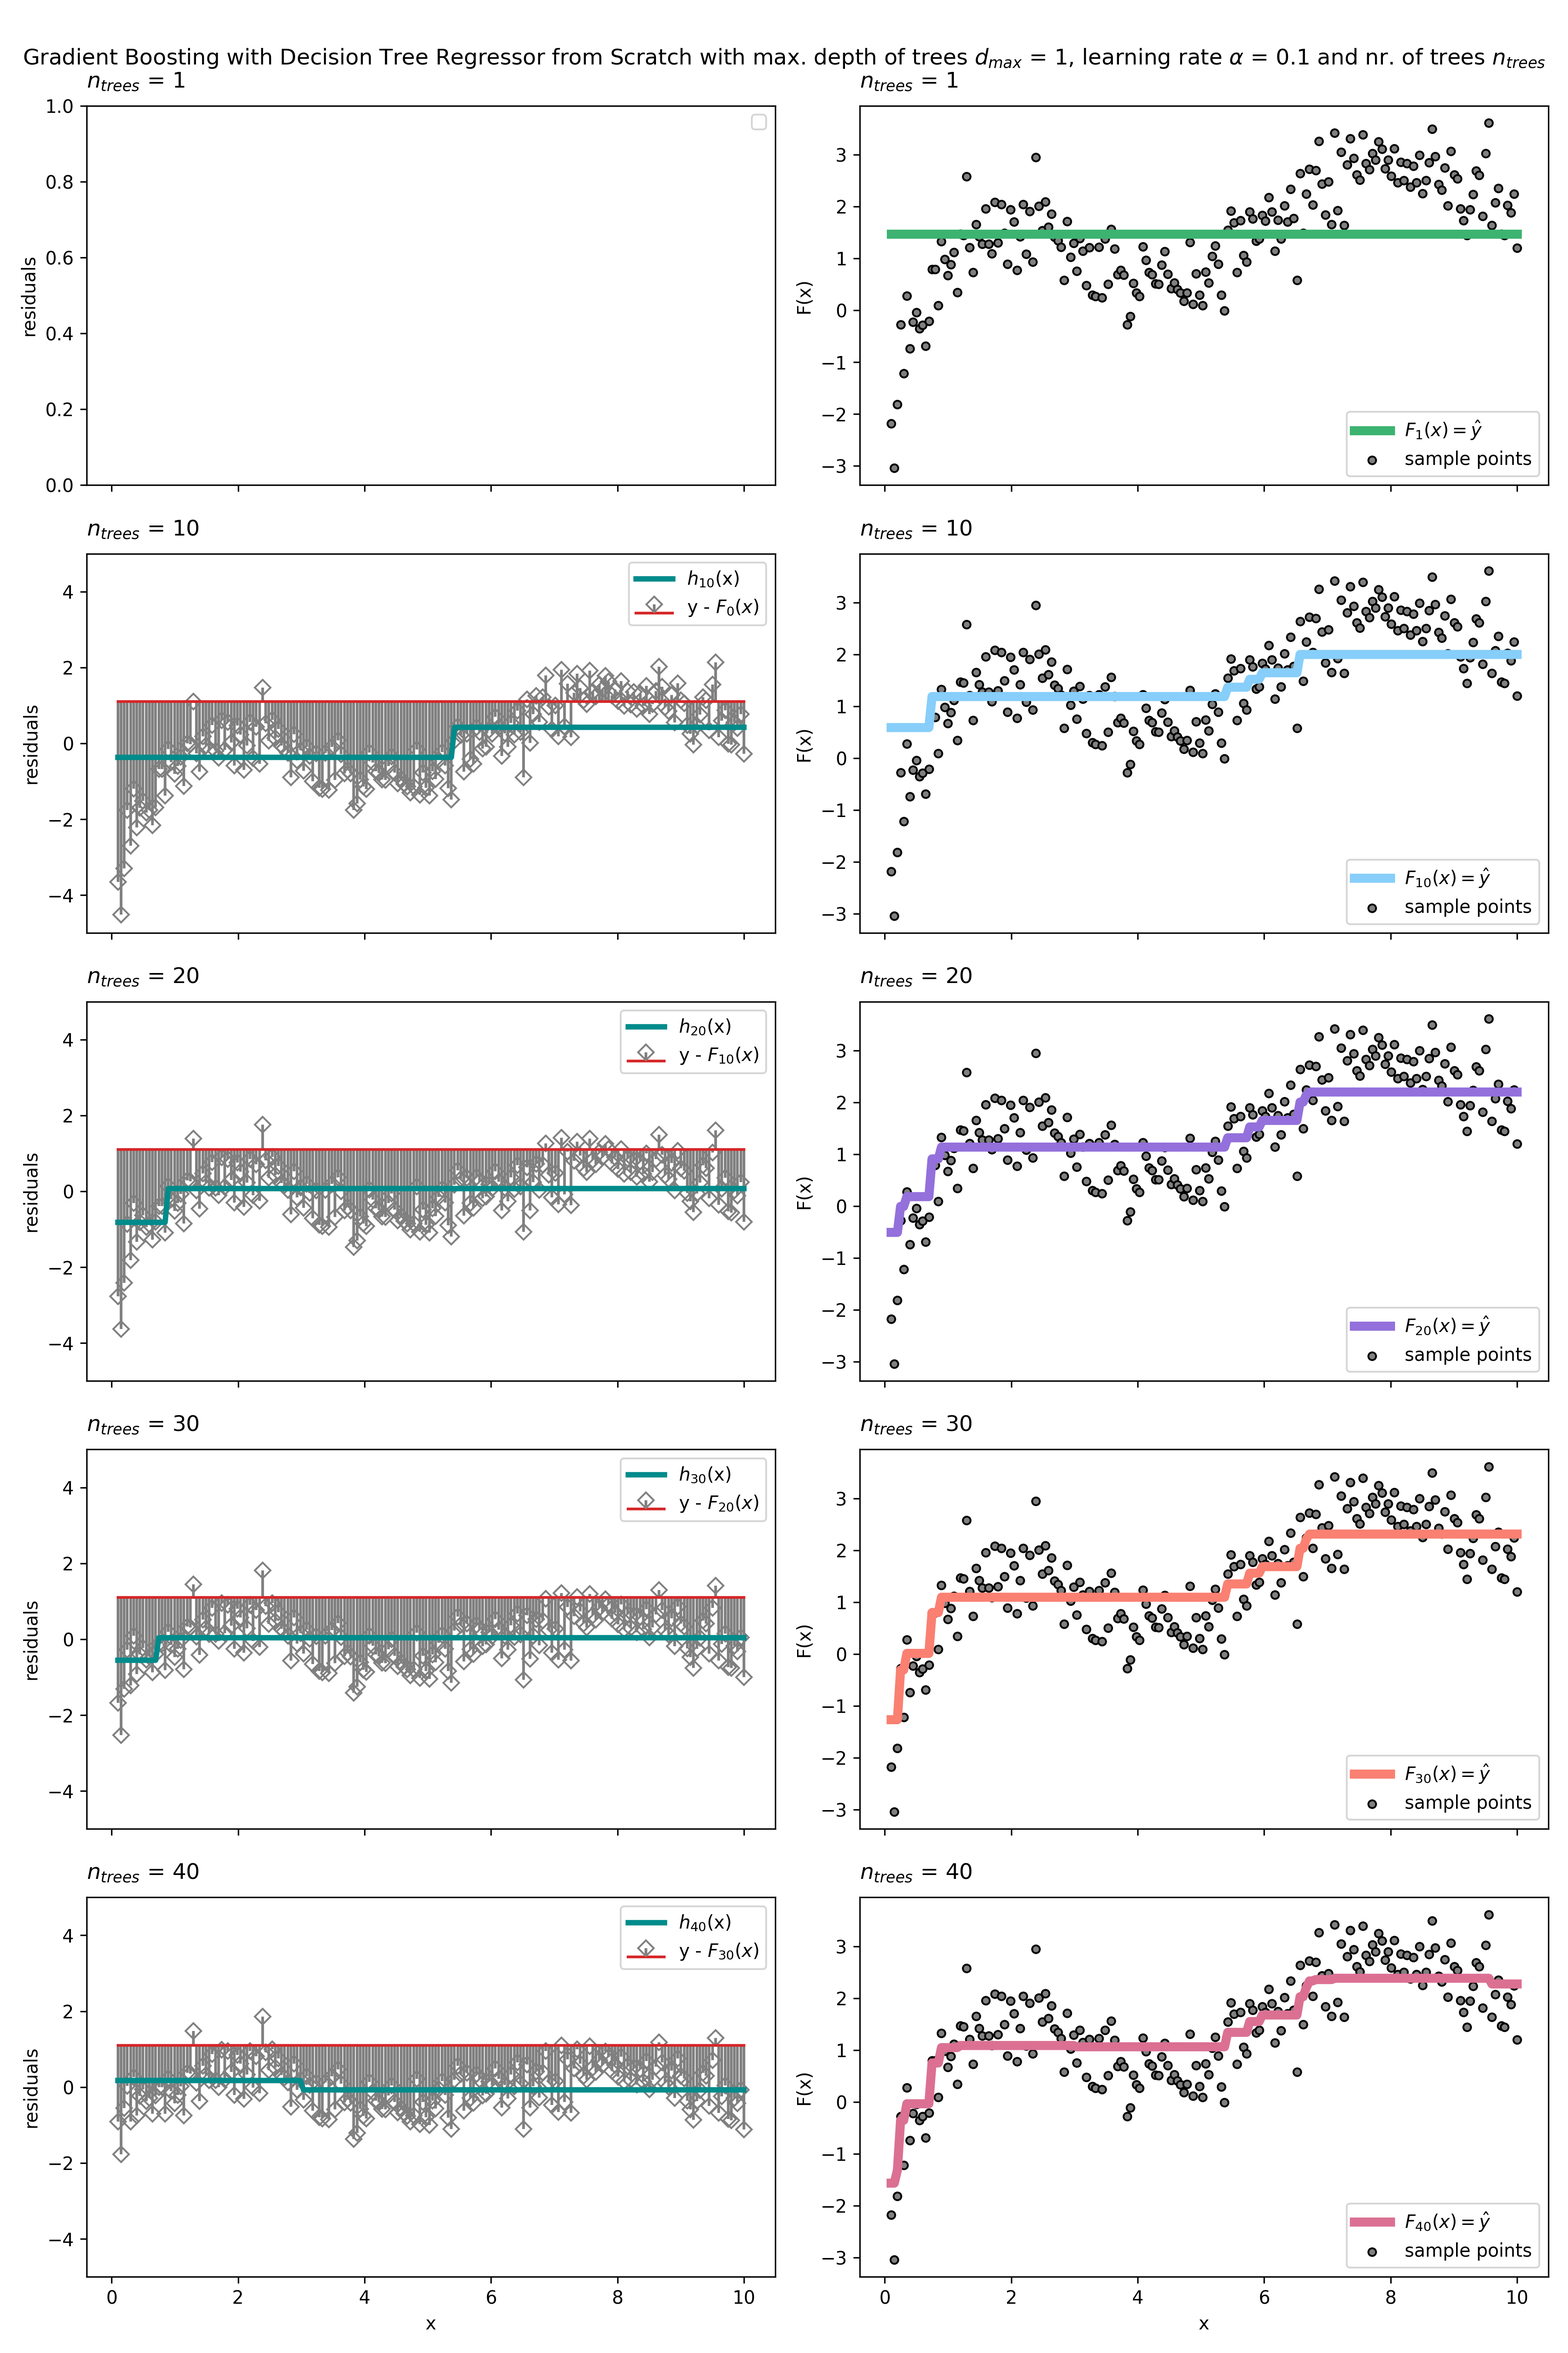
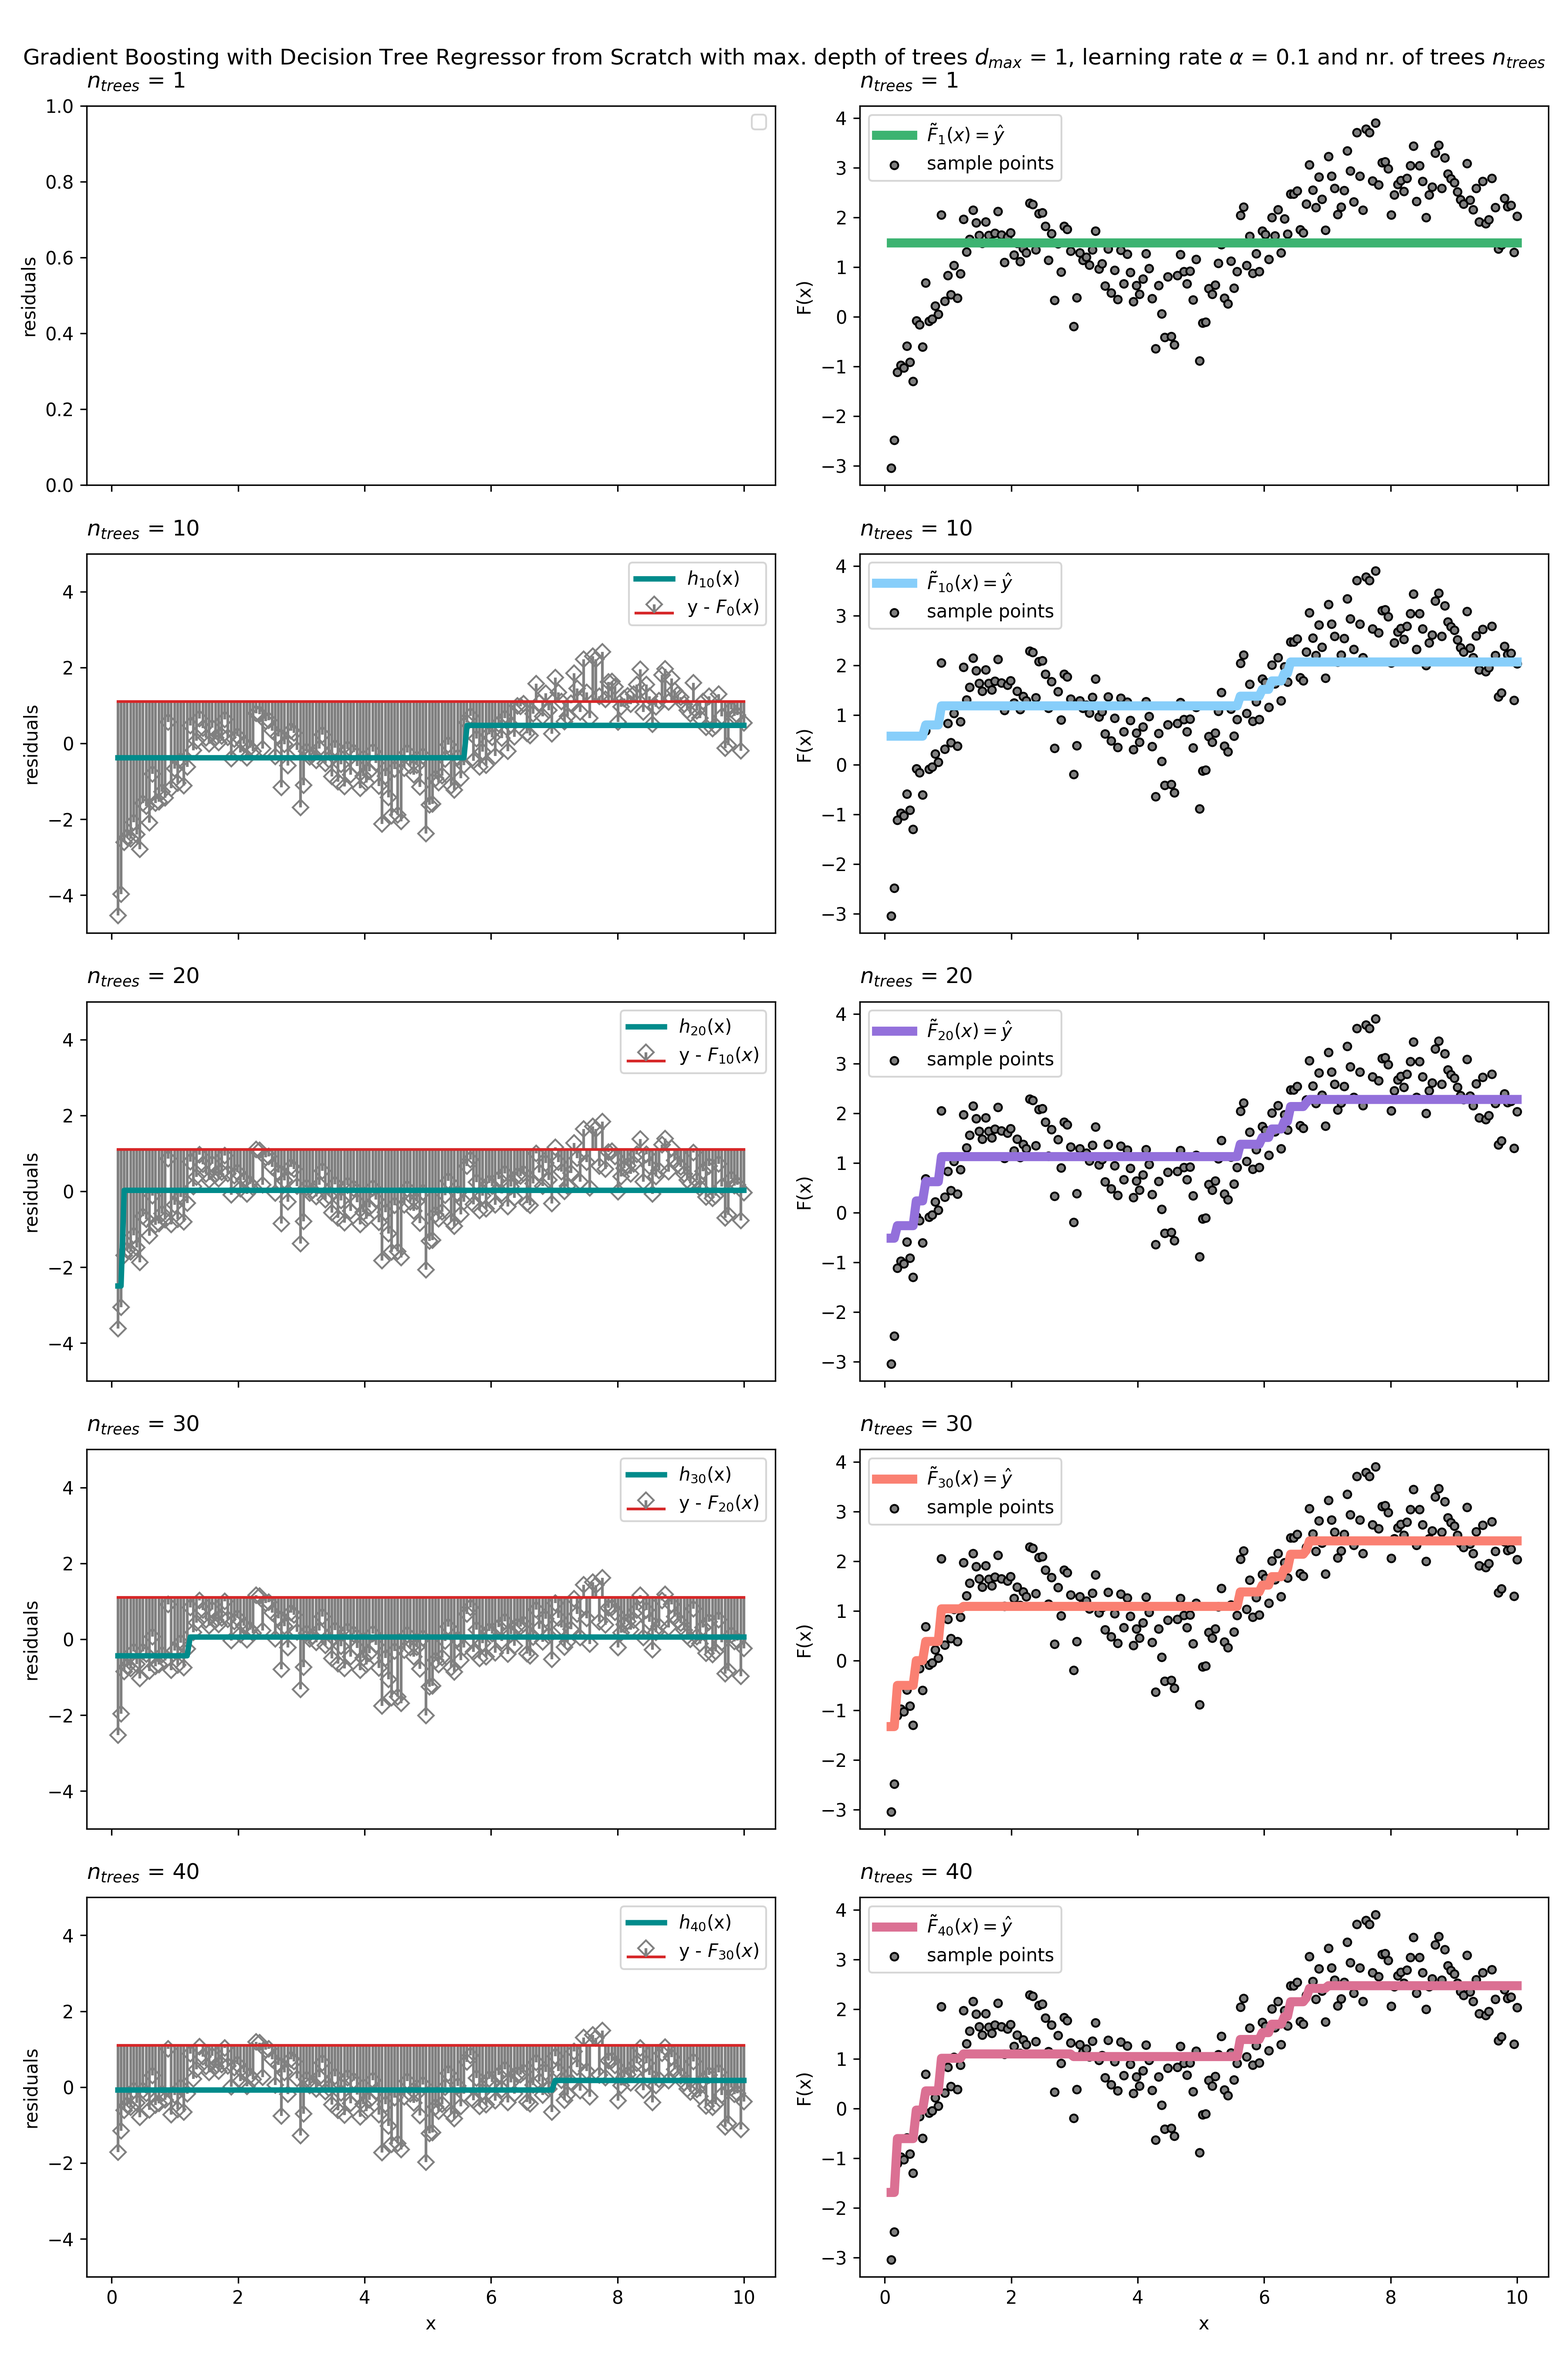
updated

diff --git a/from_scratch/gbm_iterations.py b/from_scratch/gbm_iterations.py
@@ -80,7 +80,7 @@ def linear_regression(save_plot) -> None:
     plt.plot(x_fitted, y_fitted + pi, '--', color='0.5')
 
     plt.xlabel('x') ; plt.ylabel('F(x)')
-    plt.title('Linear Regression on test function F(x) = [sin(x) + ln(x)] + $\Theta$ $\cdot \mathcal{N}(\cdot)$ at domain x $\in (0, 10]$')
+    plt.title('Linear Regression on test function F(x) = [sin(x) + ln(x)] + $\Theta$ $\cdot \mathcal{N}(\cdot)$ at domain x $\in (0, 10]$', fontsize = 12)
 
     plt.legend(fontsize=8)
     #plt.xlim(xlim)
@@ -128,7 +128,7 @@ def gbm_iterations(save_plot) -> None:
             axs[i][0].plot(X, h_m[-1],label = "$h_{%s}$(x)" %(n_trees), color = 'darkcyan', linewidth = 3)
             axs[i][0].set_ylim(-5,5)
         
-        axs[i][1].plot(X, y_hat, color = colors[i], label = "$F_{%s}(x) = \hat{y}$" %(n_trees), linewidth = 5)
+        axs[i][1].plot(X, y_hat, color = colors[i], label = "$\\tilde{F}_{%s}(x) = \hat{y}$" %(n_trees), linewidth = 5)
         axs[i][1].scatter(X, Y, color = 'gray', marker='o', edgecolors='k', s=18, label = "sample points")
 
         axs[i][0].set_title('$n_{trees}$ = ' + str(n_trees), loc = 'left', pad=10)
@@ -143,7 +143,7 @@ def gbm_iterations(save_plot) -> None:
     axs[-1][0].set_xlabel("x")
     axs[-1][1].set_xlabel("x")
 
-    fig.suptitle("Gradient Boosting with Decision Tree Regressor from Scratch with max. depth of trees $d_{max}$ = " + str(max_depth) + ", learning rate $\\alpha$ = " + str(learning_rate) + " and nr. of trees $n_{trees}$")
+    fig.suptitle("Gradient Boosting with Decision Tree Regressor from Scratch with max. depth of trees $d_{max}$ = " + str(max_depth) + ", learning rate $\\alpha$ = " + str(learning_rate) + " and nr. of trees $n_{trees}$", fontsize = 12)
     fig.tight_layout()
 
     if save_plot == True:
